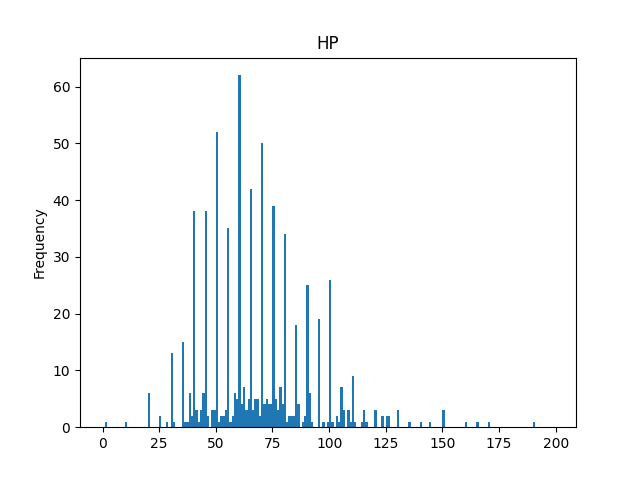
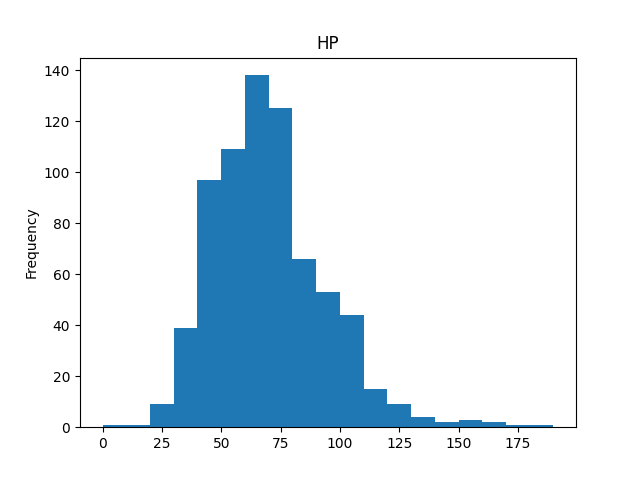
mais graficos de atributos

diff --git a/Analise Exploratoria/main.py b/Analise Exploratoria/main.py
@@ -7,7 +7,7 @@ CSV_PATH = 'Analise Exploratoria/pokemon_alopez247.csv'
 ## Exercicio 2 - Analise individual
 
 def gen_hp_graph(pd_data):
-    pd_data['HP'].plot(kind='hist', title='HP', bins=range(0, 200, 1))
+    pd_data['HP'].plot(kind='hist', title='HP', bins=range(0, 200, 10))
     plt.savefig('Analise Exploratoria/HP.png')
     plt.close()
     
@@ -16,9 +16,39 @@ def gen_attack_graph(pd_data):
     plt.savefig('Analise Exploratoria/Attack.png')
     plt.close()
 
+def gen_defense_graph(pd_data):
+    pd_data['Defense'].plot(kind='hist', title='Defense', bins=range(0, 200, 5))
+    plt.savefig('Analise Exploratoria/Defense.png')
+    plt.close()
+
+def gen_sp_attack_graph(pd_data):
+    pd_data['Sp_Atk'].plot(kind='hist', title='Sp. Attack', bins=range(0, 200, 5))
+    plt.savefig('Analise Exploratoria/Sp_Attack.png')
+    plt.close()
+
+def gen_sp_defense_graph(pd_data):
+    pd_data['Sp_Def'].plot(kind='hist', title='Sp. Defense', bins=range(0, 200, 5))
+    plt.savefig('Analise Exploratoria/Sp_Defense.png')
+    plt.close()
+
+def gen_speed_graph(pd_data):
+    pd_data['Speed'].plot(kind='hist', title='Speed', bins=range(0, 200, 5))
+    plt.savefig('Analise Exploratoria/Speed.png')
+    plt.close()
+
+def gen_total_graph(pd_data):
+    pd_data['Total'].plot(kind='hist', title='Total', bins=range(0, 700, 10))
+    plt.savefig('Analise Exploratoria/Total.png')
+    plt.close()
+
 def gen_weight_graph(pd_data):
     pd_data['Weight_kg'].plot(kind='box', title='Weight', vert=False, xlim=(0, 200))
     plt.savefig('Analise Exploratoria/Weight.png')
+    plt.close()
+
+def gen_height_graph(pd_data):
+    pd_data['Height_m'].plot(kind='box', title='Height', vert=False, xlim=(0, 20))
+    plt.savefig('Analise Exploratoria/Height.png')
     plt.close()
 
 def gen_no_pokemon_by_generation(pd_data):
@@ -95,27 +125,33 @@ if __name__ == '__main__':
 
     data_pandas = pd.read_csv(CSV_PATH)
 
-##### Ex 2
+#### Ex 2
 
 
-    # gen_hp_graph(data_pandas)
-    # gen_attack_graph(data_pandas)
+    gen_hp_graph(data_pandas)
+    gen_attack_graph(data_pandas)
+    gen_defense_graph(data_pandas)
+    gen_sp_attack_graph(data_pandas)
+    gen_sp_defense_graph(data_pandas)
+    gen_speed_graph(data_pandas)
+    gen_total_graph(data_pandas)
 
-    # gen_weight_graph(data_pandas)
+    gen_weight_graph(data_pandas)
+    gen_height_graph(data_pandas)
 
-    # gen_no_pokemon_by_generation(data_pandas)
-    # gen_no_pokemon_by_first_type(data_pandas)
-    # gen_no_pokemon_by_second_type(data_pandas)
+    gen_no_pokemon_by_generation(data_pandas)
+    gen_no_pokemon_by_first_type(data_pandas)
+    gen_no_pokemon_by_second_type(data_pandas)
 
-##### Ex 3
+#### Ex 3
 
-    # gen_weight_speed_comparison_graph(data_pandas)
-    # gen_weight_total_comparison_graph(data_pandas)
+    gen_weight_speed_comparison_graph(data_pandas)
+    gen_weight_total_comparison_graph(data_pandas)
 
-    # gen_height_speed_comparison_graph(data_pandas)
-    # gen_height_total_comparison_graph(data_pandas)
+    gen_height_speed_comparison_graph(data_pandas)
+    gen_height_total_comparison_graph(data_pandas)
 
-    # gen_avg_total_for_generation(data_pandas)
+    gen_avg_total_for_generation(data_pandas)
 
-    #gen_most_common_type_combination(data_pandas)
+    gen_most_common_type_combination(data_pandas)
     gen_no_pokemon_by_type(data_pandas)
